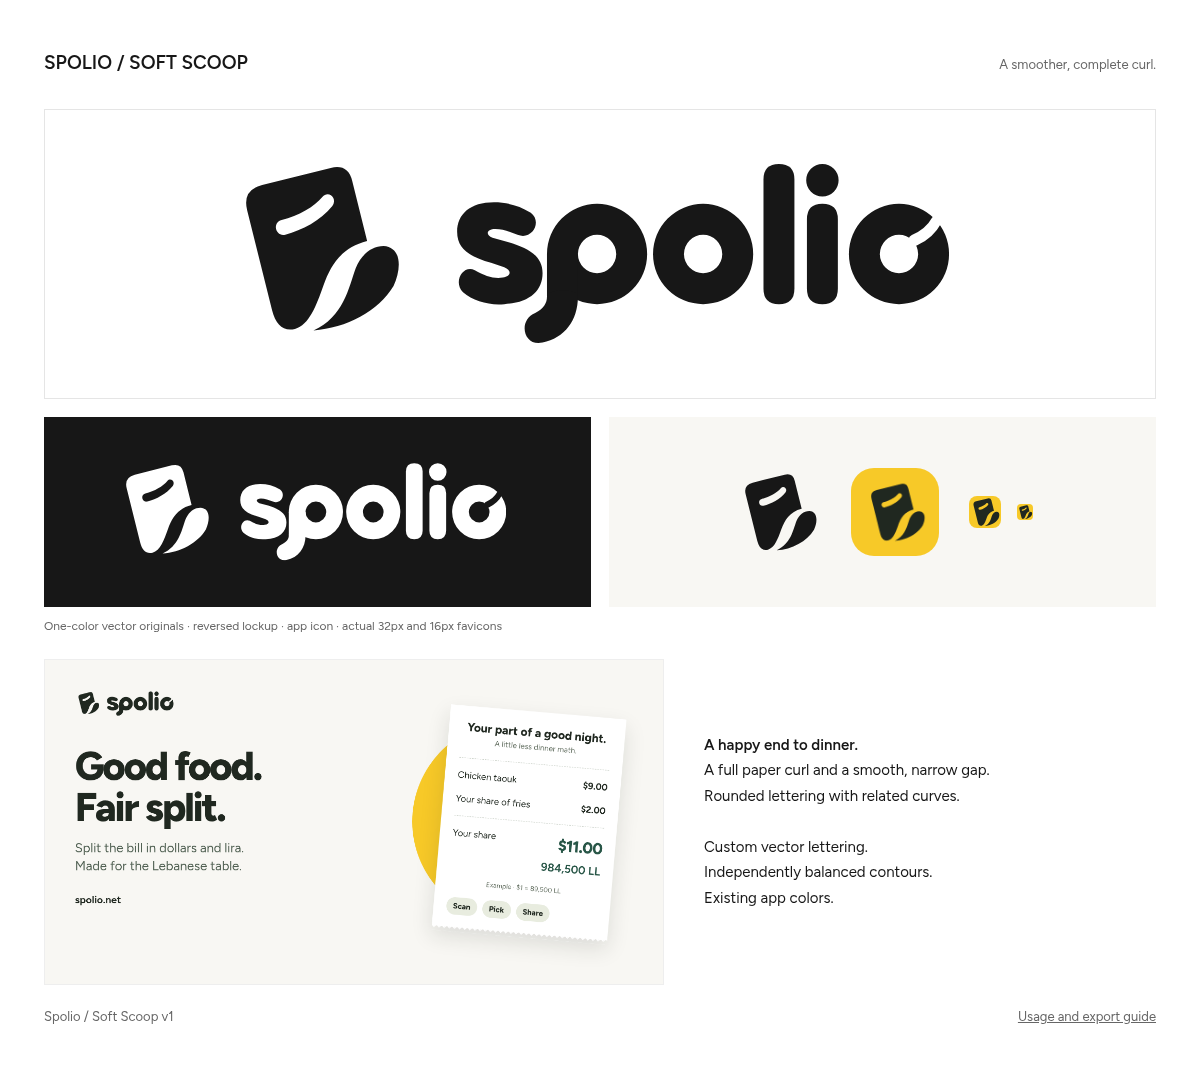
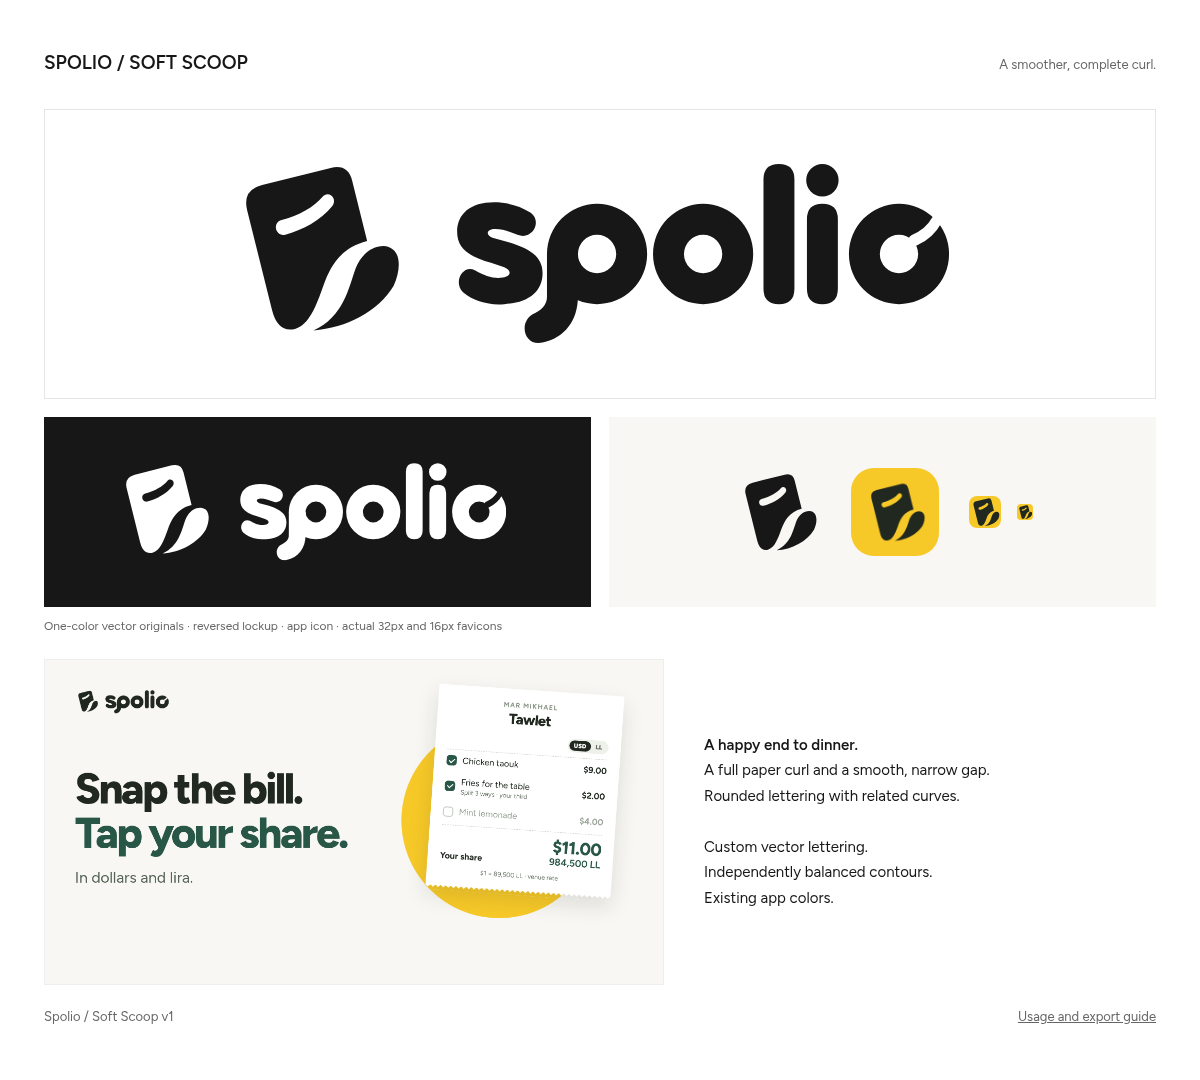
feat: update social card and SEO images for improved branding and messaging

Changed region(s): [[0.3083, 0.6417, 0.5242, 0.8556], [0.0617, 0.6417, 0.3083, 0.8556]]

diff --git a/brand/social-card.html b/brand/social-card.html
@@ -4,28 +4,28 @@
 <title>Spolio — social preview source</title>
 <style>
 /* EMBED_FONT */
-*{box-sizing:border-box}body{margin:0;width:1200px;height:630px;overflow:hidden;background:#f8f7f3;color:#202820;font-family:Figtree,Arial,sans-serif}.layout{display:grid;grid-template-columns:650px 1fr;height:100%;padding:54px 58px;gap:30px}.brand{display:flex;gap:12px;align-items:center;font-size:36px;font-weight:800;letter-spacing:-2px}.brand svg{width:200px;height:auto}.pitch h1{font-size:78px;line-height:1.02;letter-spacing:-4px;font-weight:800;margin:51px 0 22px;max-width:610px}.pitch p{font-size:25px;line-height:1.4;margin:0;color:#526254;max-width:570px}.address{font-size:20px;font-weight:650;margin-top:36px}.scene{position:relative;display:flex;align-items:center;justify-content:center}.plate{position:absolute;width:390px;height:390px;background:#f7c928;border-radius:50%;top:65px;left:-25px}.receipt{position:relative;background:white;width:342px;padding:27px 25px 24px;transform:rotate(5deg);box-shadow:0 18px 42px #20282020}.receipt:after{content:'';position:absolute;left:0;right:0;bottom:-9px;height:10px;background:linear-gradient(135deg,white 25%,transparent 25%) -5px 0/10px 10px,linear-gradient(225deg,white 25%,transparent 25%) -5px 0/10px 10px}.receipt .top{font-size:23px;font-weight:750;text-align:center;margin-bottom:5px}.receipt .sub{text-align:center;font-size:15px;color:#647062;margin-bottom:23px}.line{display:flex;justify-content:space-between;padding:12px 0;font-size:18px;gap:16px}.rule{border-top:1px dashed #c7cec5;margin:10px 0}.total{font-size:31px;font-weight:800;color:#285647;letter-spacing:-1px}.lbp{font-size:22px;font-weight:650;color:#285647;text-align:right}.note{margin-top:23px;font-size:13px;color:#647062;text-align:center}.currency{display:inline-flex;gap:10px;margin-top:22px;font-size:15px;font-weight:750}.currency span{padding:8px 13px;background:#e8ecdf;border-radius:20px}
+*{box-sizing:border-box}body{margin:0;width:1200px;height:630px;overflow:hidden;background:#f8f7f3;color:#202820;font-family:Figtree,Arial,sans-serif}.layout{display:grid;grid-template-columns:640px 1fr;height:100%;padding:52px 58px;gap:24px}.brand{display:flex;gap:12px;align-items:center}.brand svg{width:190px;height:auto}.pitch h1{font-size:84px;line-height:1.02;letter-spacing:-4.5px;font-weight:800;margin:96px 0 24px}.pitch h1 span{color:#285647}.pitch p{font-size:30px;line-height:1.4;margin:0;color:#526254;max-width:560px}.steps{display:flex;gap:10px;margin-top:30px;font-size:18px;font-weight:750}.steps span{padding:9px 16px;background:#e8ecdf;border-radius:22px}.steps i{font-style:normal;color:#8a9688;margin-right:6px}.scene{position:relative;display:flex;align-items:flex-start;justify-content:center;padding-top:6px}.plate{position:absolute;width:380px;height:380px;background:#f7c928;border-radius:50%;top:70px;left:-30px}.receipt{position:relative;background:white;width:360px;padding:24px 24px 22px;transform:rotate(4deg);box-shadow:0 18px 42px #20282020}.receipt:after{content:'';position:absolute;left:0;right:0;bottom:-9px;height:10px;background:linear-gradient(135deg,white 25%,transparent 25%) -5px 0/10px 10px,linear-gradient(225deg,white 25%,transparent 25%) -5px 0/10px 10px}.over{font-size:13px;font-weight:700;letter-spacing:1.5px;text-transform:uppercase;color:#8a9688;text-align:center}.venue{font-size:28px;font-weight:800;letter-spacing:-1px;text-align:center;margin:2px 0 14px}.prompt{display:flex;justify-content:space-between;align-items:center;font-size:15px;color:#647062;padding-bottom:10px;border-bottom:1px dashed #c7cec5}.toggle{display:flex;background:#eef1ea;border-radius:14px;padding:3px;font-size:12px;font-weight:750}.toggle b{padding:3px 9px;border-radius:11px}.toggle b.on{background:#202820;color:white}.item{display:flex;align-items:center;gap:11px;padding:11px 0;font-size:17px}.item .box{flex:none;width:20px;height:20px;border-radius:6px;border:2px solid #c7cec5;display:grid;place-items:center}.item.on .box{background:#285647;border-color:#285647}.item.on .box:after{content:'';width:9px;height:5px;border:solid white;border-width:0 0 2.5px 2.5px;transform:translateY(-1px) rotate(-45deg)}.item .name{flex:1;line-height:1.15}.item small{display:block;font-size:12.5px;color:#647062;margin-top:2px}.item b{font-weight:700}.item.off{color:#9aa498}.total{display:flex;justify-content:space-between;align-items:flex-end;border-top:1px dashed #c7cec5;margin-top:4px;padding-top:12px}.total span{font-size:17px;font-weight:700}.total small{display:block;font-size:13px;color:#647062;font-weight:500;margin-top:2px}.amount{text-align:right;color:#285647}.amount strong{display:block;font-size:34px;font-weight:800;letter-spacing:-1px;line-height:1}.amount em{font-style:normal;font-size:19px;font-weight:650}.rate{margin-top:12px;font-size:12.5px;color:#647062;text-align:center}
 </style>
 <div class="layout">
   <div class="pitch">
     <div class="brand"><!-- BRAND_LOCKUP --></div>
-    <h1>Good food.<br>Fair split.</h1>
-    <p>Split the bill in dollars and lira.<br>Made for the Lebanese table.</p>
-    <div class="address">spolio.net</div>
+    <h1>Snap the bill.<br><span>Tap your share.</span></h1>
+    <p>In dollars and lira.</p>
   </div>
   <div class="scene">
     <div class="plate"></div>
     <div class="receipt">
-      <div class="top">Your part of a good night.</div>
-      <div class="sub">A little less dinner math.</div>
-      <div class="rule"></div>
-      <div class="line"><span>Chicken taouk</span><b>$9.00</b></div>
-      <div class="line"><span>Your share of fries</span><b>$2.00</b></div>
-      <div class="rule"></div>
-      <div class="line"><span>Your share</span><b class="total">$11.00</b></div>
-      <div class="lbp">984,500 LL</div>
-      <div class="note">Example · $1 = 89,500 LL</div>
-      <div class="currency"><span>Scan</span><span>Pick</span><span>Share</span></div>
+      <div class="over">Mar Mikhael</div>
+      <div class="venue">Tawlet</div>
+      <div class="prompt"><span></span><span class="toggle"><b class="on">USD</b><b>LL</b></span></div>
+      <div class="item on"><span class="box"></span><span class="name">Chicken taouk</span><b>$9.00</b></div>
+      <div class="item on"><span class="box"></span><span class="name">Fries for the table<small>Split 3 ways · your third</small></span><b>$2.00</b></div>
+      <div class="item off"><span class="box"></span><span class="name">Mint lemonade</span><b>$4.00</b></div>
+      <div class="total">
+        <span>Your share</span>
+        <div class="amount"><strong>$11.00</strong><em>984,500 LL</em></div>
+      </div>
+      <div class="rate">$1 = 89,500 LL · venue rate</div>
     </div>
   </div>
 </div>

diff --git a/src/components/features/landing/content.ts b/src/components/features/landing/content.ts
@@ -4,8 +4,8 @@ export const landingSeo = {
     'Scan a Lebanese receipt, split it item-by-item, and share a live link on WhatsApp. Spolio reads both the LL and $ totals and uses the venue’s real rate. No install, no account.',
   keywords:
     'bill splitter, receipt scanner, split the bill, Lebanon, LBP, USD, lira rate, restaurant bill',
-  image: 'https://spolio.net/og-image.png?v=spolio-scoop-1',
-  imageAlt: 'Spolio — split the bill in dollars and lira. Made for the Lebanese table.',
+  image: 'https://spolio.net/og-image.png?v=spolio-scoop-2',
+  imageAlt: 'Spolio — snap the bill, tap your share. In dollars and lira.',
   url: 'https://spolio.net/',
 }
 

diff --git a/src/routes/__root.tsx b/src/routes/__root.tsx
@@ -38,8 +38,8 @@ export const Route = createRootRouteWithContext<{
       ...seo({
         title: "Spolio — split a bill in LBP & USD",
         description: `Scan a Lebanese receipt, see it in both LBP and USD at the venue's rate, and split it item-by-item.`,
-        image: 'https://spolio.net/og-image.png?v=spolio-scoop-1',
-        imageAlt: 'Spolio — split the bill in dollars and lira. Made for the Lebanese table.',
+        image: 'https://spolio.net/og-image.png?v=spolio-scoop-2',
+        imageAlt: 'Spolio — snap the bill, tap your share. In dollars and lira.',
       }),
     ],
     links: [

diff --git a/src/routes/join/$shareToken.tsx b/src/routes/join/$shareToken.tsx
@@ -27,7 +27,7 @@ export const Route = createFileRoute('/join/$shareToken')({
             loaderData.totalLbp,
           )} on the bill. Claim your items and see your share in USD & LBP — no app needed.`
         : 'Claim your items and see your share in USD & LBP — no app needed.',
-      image: 'https://spolio.net/og-image.png?v=spolio-scoop-1',
+      image: 'https://spolio.net/og-image.png?v=spolio-scoop-2',
       imageAlt: 'Spolio — split a receipt in LBP and USD.',
     }),
   }),
